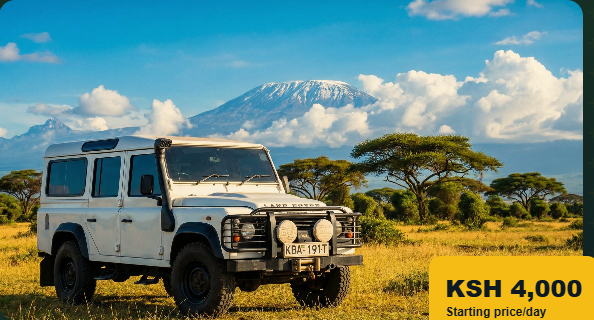
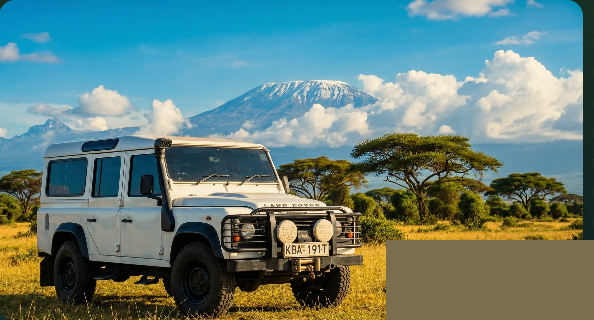
feat: remove price tag from background and make login card 40% transparent for better background visibility

Changed region(s): [[0.6364, 0.75, 1.0, 1.0]]

diff --git a/src/pages/LoginPage.tsx b/src/pages/LoginPage.tsx
@@ -37,17 +37,17 @@ export default function LoginPage({ onLogin }: LoginPageProps) {
         backgroundAttachment: 'fixed'
       }}
     >
-      {/* Subtle overlay for form contrast */}
-      <div className="absolute inset-0 bg-black/20 z-0" />
+      {/* Minimal overlay for form contrast */}
+      <div className="absolute inset-0 bg-black/10 z-0" />
 
       <section 
         className="psk-login-card-transparent relative z-10 w-full max-w-[520px] p-7 sm:p-10"
         style={{
-          backgroundColor: 'rgba(9, 26, 41, 0.65)',
-          backdropFilter: 'blur(20px)',
-          border: '1px solid rgba(160, 218, 239, 0.3)',
+          backgroundColor: 'rgba(9, 26, 41, 0.40)',
+          backdropFilter: 'blur(25px)',
+          border: '1px solid rgba(160, 218, 239, 0.4)',
           borderRadius: '24px',
-          boxShadow: '0 28px 90px rgba(0,0,0,0.3), 0 0 0 1px rgba(255,255,255,0.05) inset'
+          boxShadow: '0 28px 90px rgba(0,0,0,0.2), 0 0 0 1px rgba(255,255,255,0.08) inset'
         }}
       >
         <header className="flex flex-col items-center text-center">

diff --git a/dist/index.html b/dist/index.html
@@ -6,8 +6,8 @@
     <meta name="viewport" content="width=device-width, initial-scale=1.0" />
     <link href="https://fonts.googleapis.com/css2?family=Inter:wght@300;400;500;600;700;800&display=swap" rel="stylesheet">
     <title>PSK Safaris Admin</title>
-    <script type="module" crossorigin src="/assets/index-DiXHbuc1.js"></script>
-    <link rel="stylesheet" crossorigin href="/assets/index-CvoI8z-e.css">
+    <script type="module" crossorigin src="/assets/index-CVd25Q54.js"></script>
+    <link rel="stylesheet" crossorigin href="/assets/index-BfJLc22J.css">
   </head>
   <body>
     <div id="root"></div>
